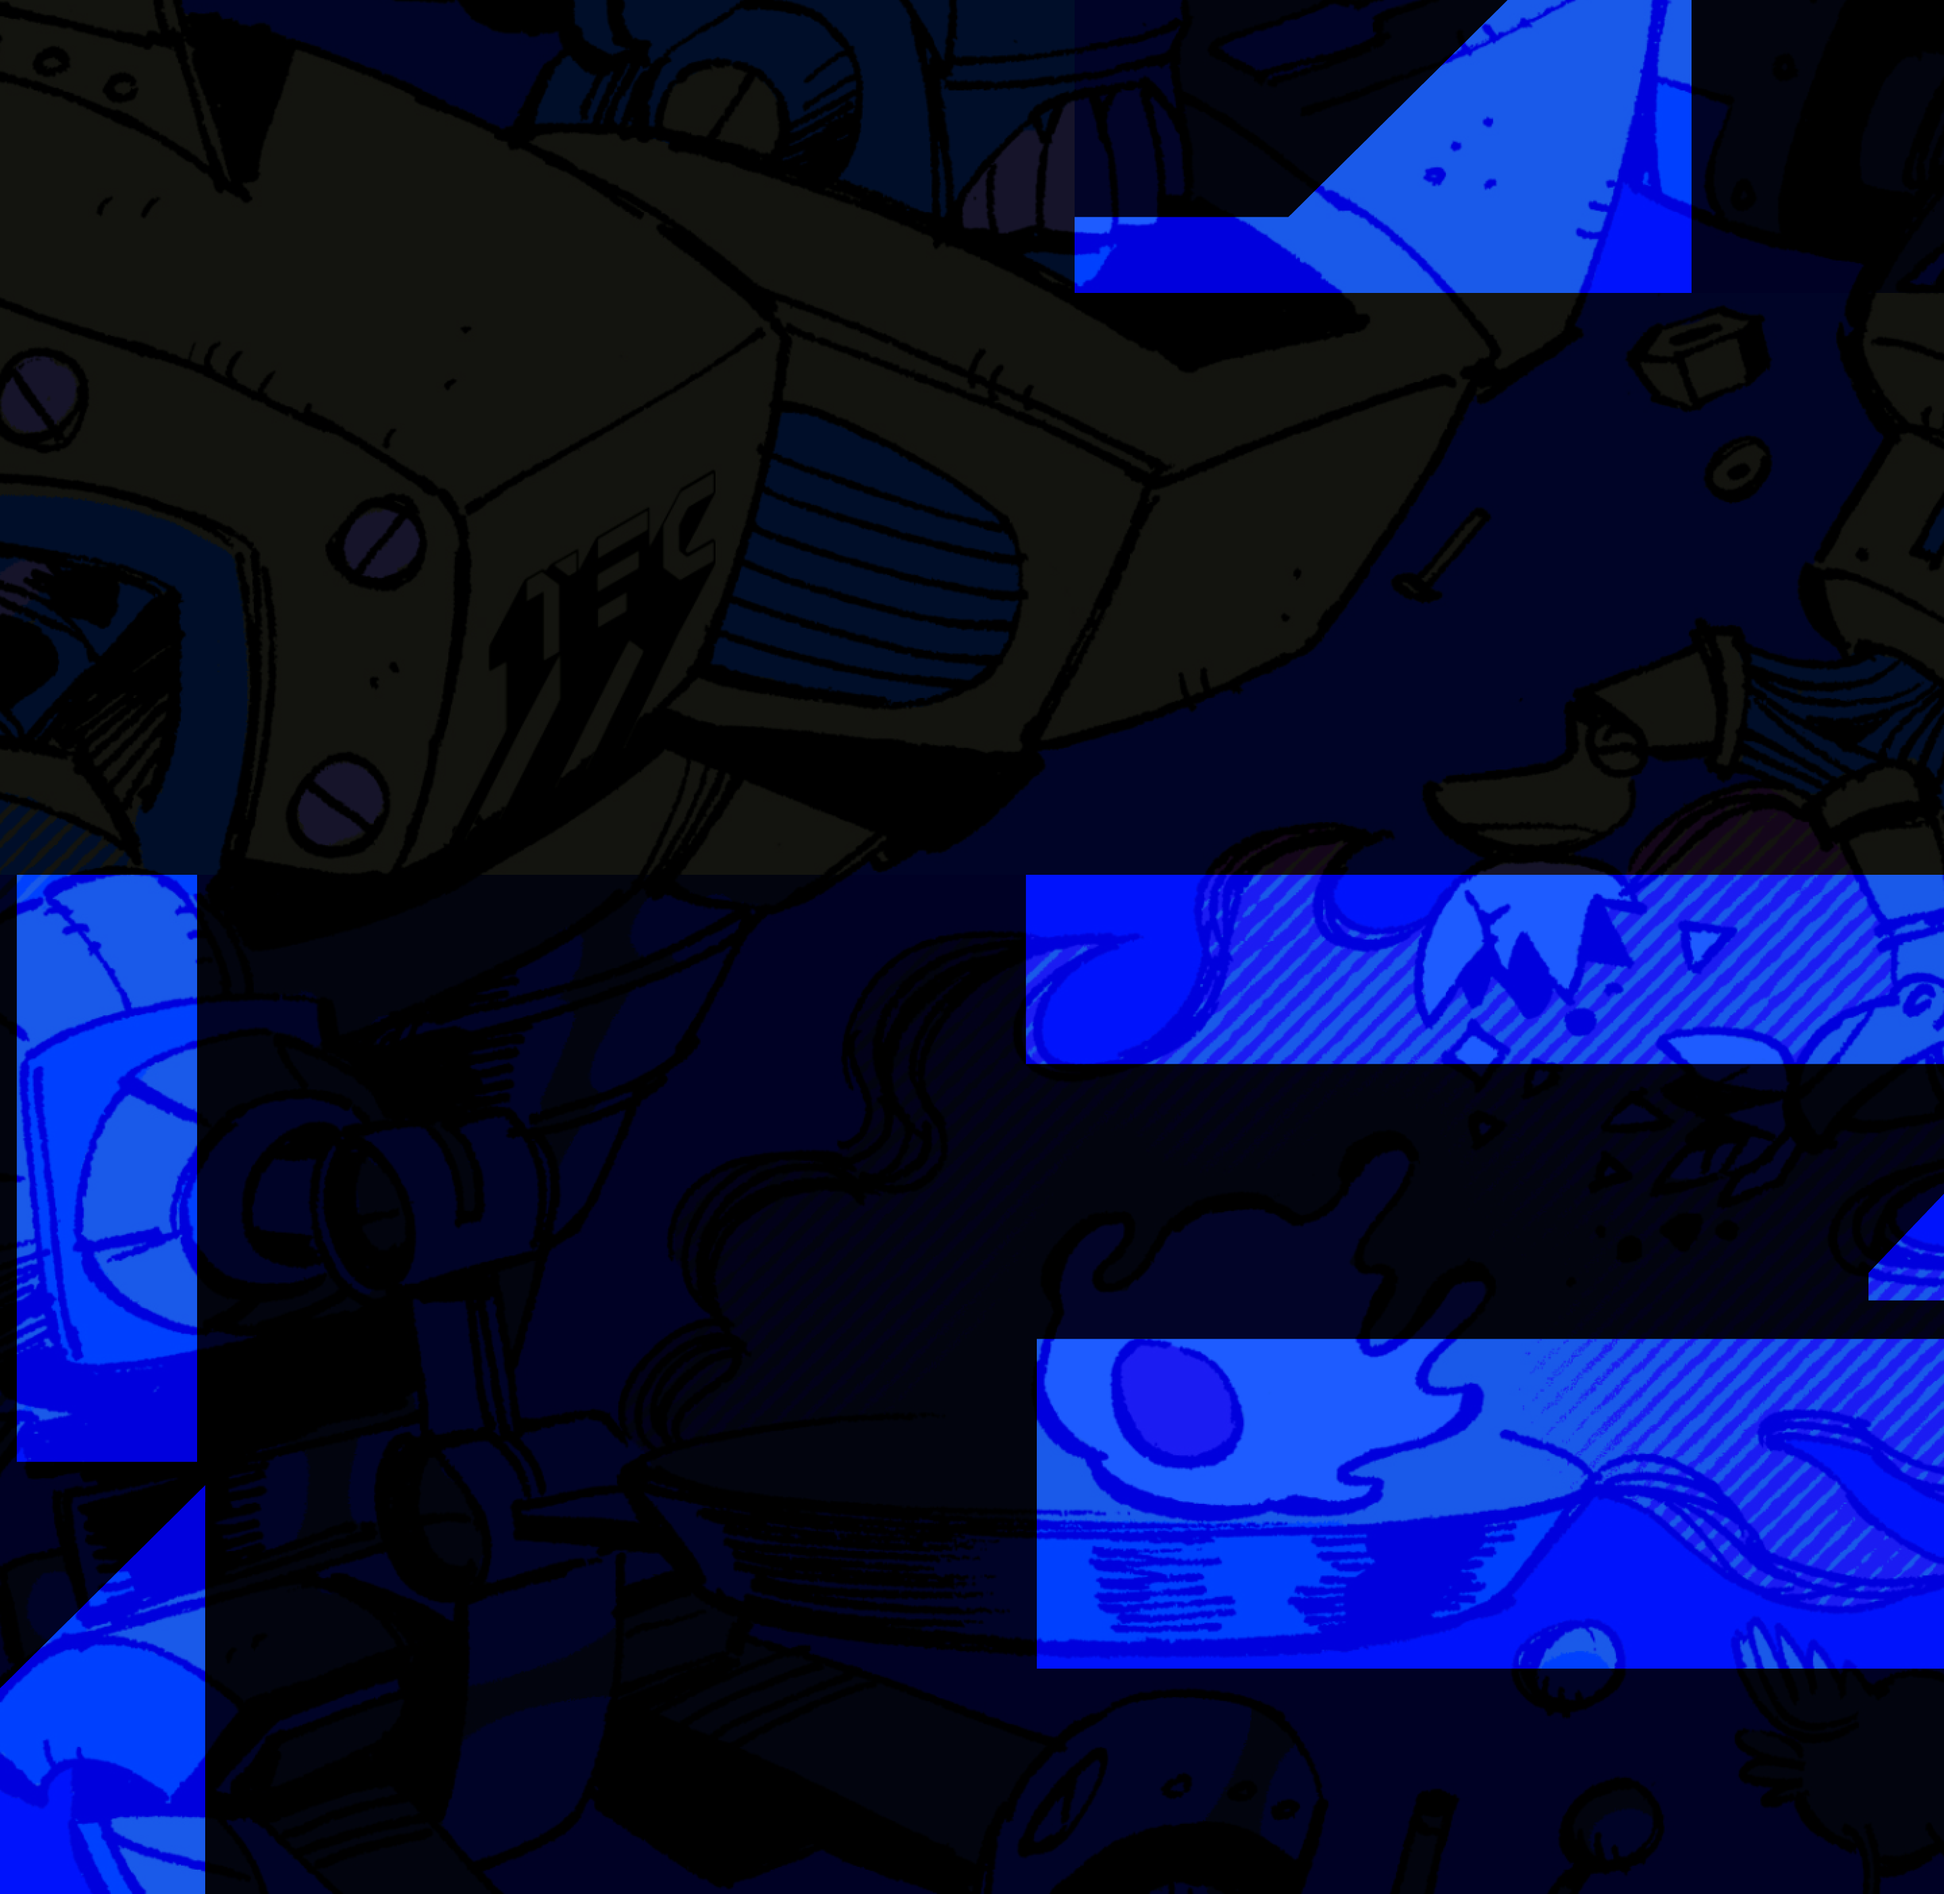
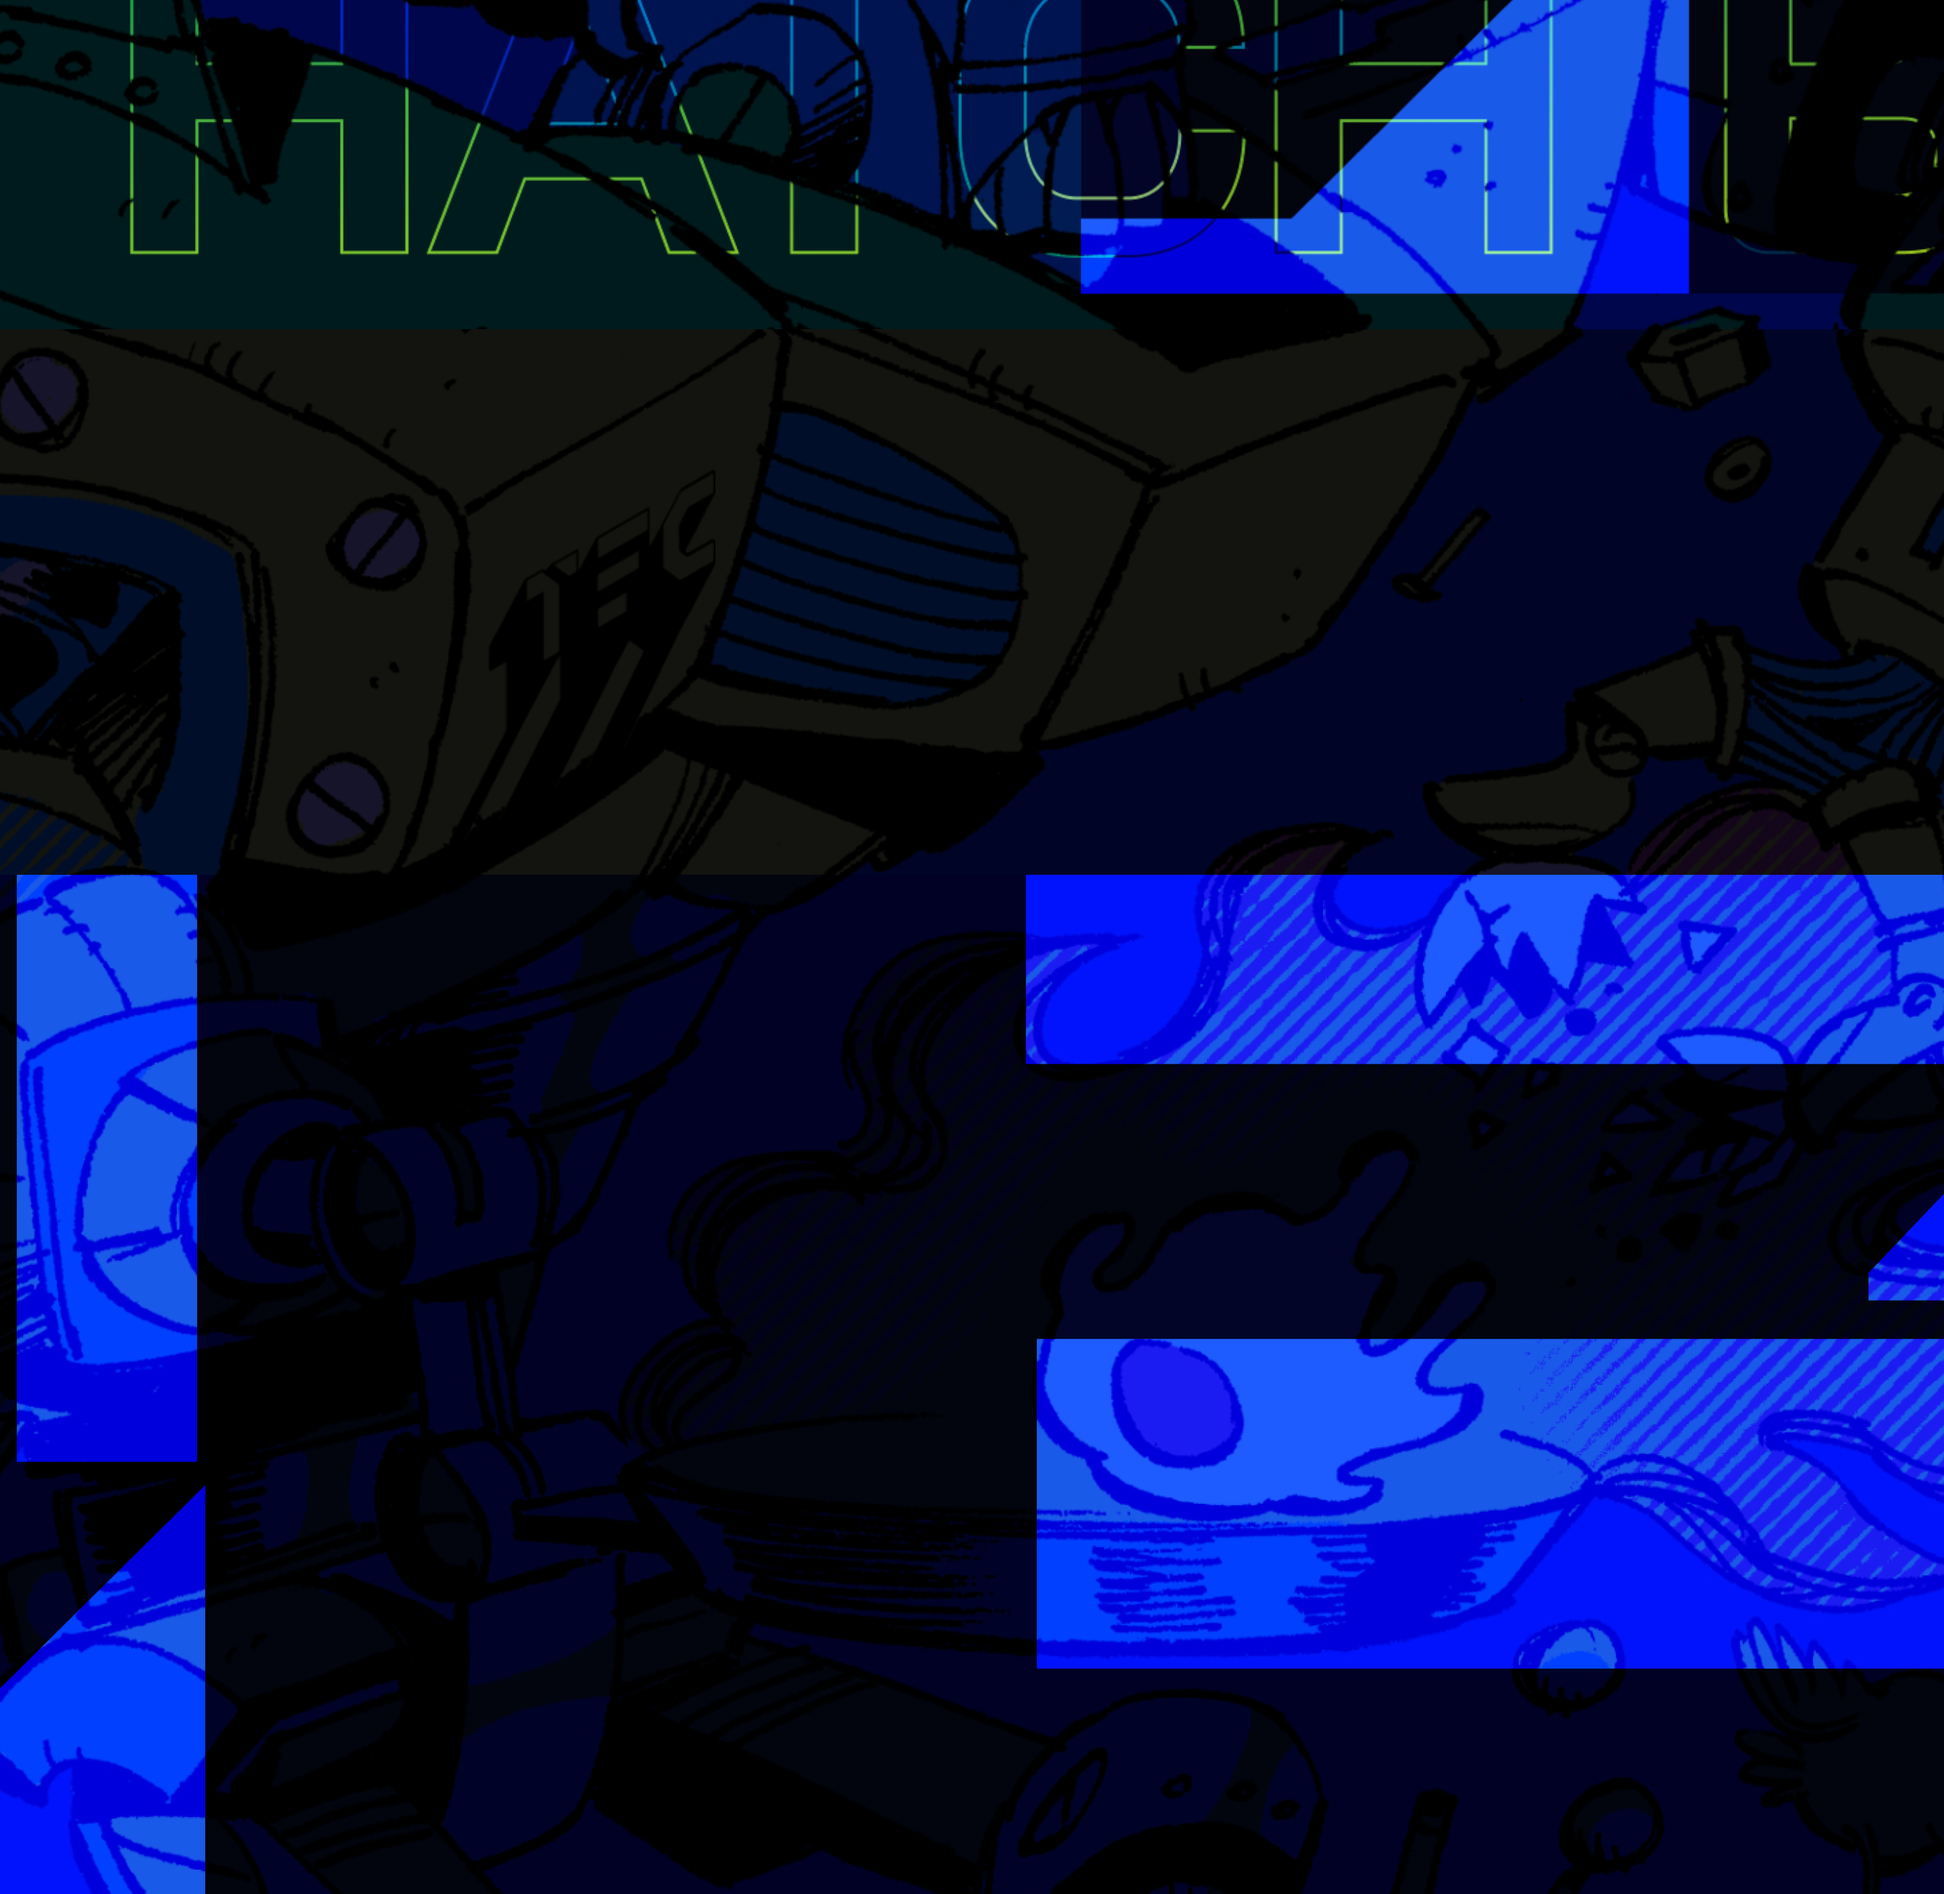
Change background and add padding to the top

diff --git a/src/App.js b/src/App.js
@@ -1,5 +1,4 @@
 import React from 'react'
-import Heading from './Heading.svg'
 import Nft from './components/Nft'
 import TopContributors from './components/TopContributors'
 import { useContributorsSubscription } from './hooks/useSubscriptions'
@@ -27,7 +26,6 @@ function App() {
 
   return (
     <Background>
-      <img src={Heading} style={{ maxWidth: '100vw' }} alt="Hatch" />
       <Layout style={{ marginTop: '50px' }} breakpoints={{ large: 901 }}>
         <GlobalFonts />
         <Nft minBid={minBid} endDate={endDate} />

diff --git a/src/components/Nft.js b/src/components/Nft.js
@@ -89,6 +89,7 @@ const Split = styled.div`
   padding-bottom: ${3 * GU}px;
   width: 100%;
   @media (min-width: 900px) {
+    padding-top: ${16 * GU}px;
     display: flex;
   }
 `
